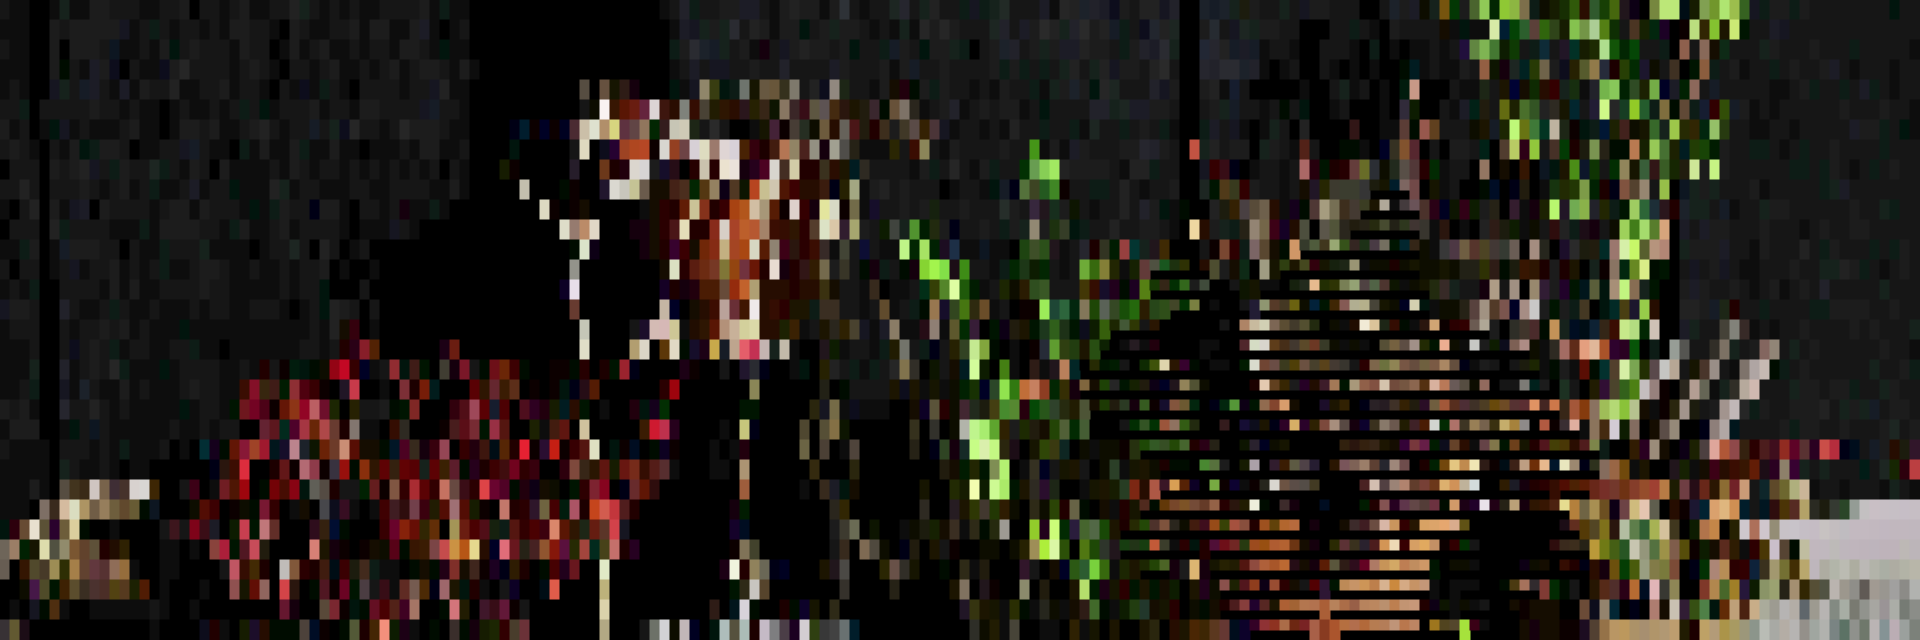
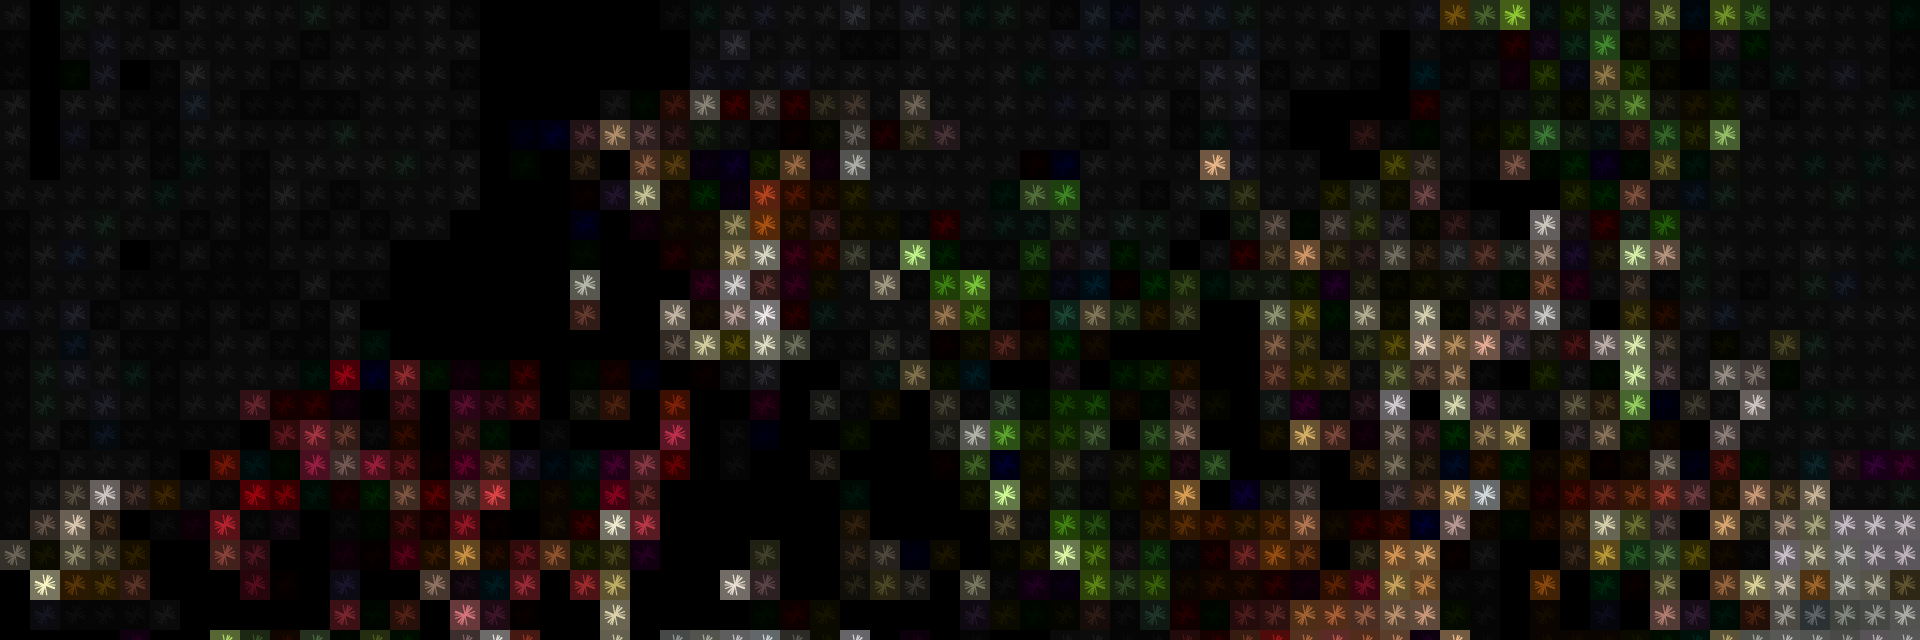
function in pixel

diff --git a/sketch.js b/sketch.js
@@ -3,9 +3,9 @@ let maskImg = null;
 let renderCounter = 0;
 
 // change these three lines as appropiate
-let sourceFile = "input_3.jpg";
-let maskFile = "mask_3.png";
-let outputFile = "output_3.png";
+let sourceFile = "input_1.jpg";
+let maskFile = "mask_1.png";
+let outputFile = "output_1.png";
 
 function preload() {
   sourceImg = loadImage(sourceFile);
@@ -23,73 +23,46 @@ function setup() {
   maskImg.loadPixels();
 }
 
-const tileHeight = 10;
-const tileWidth = 10;
+const tileHeight = 30;
+const tileWidth = 30;
 
-const x_step = 10;
-const y_step = 20;
+const x_step = 30;
+const y_step = 30;
 
 function draw() {
 
-  for(var x = 0; x < sourceImg.width; x = x+ x_step){
-    for(var y = 0; y < sourceImg.height; y = y+ y_step){
-        let pix = sourceImg.get(x, y);
-        let mask = maskImg.get(x, y);
-        fill(pix);
-        stroke(pix);
-         if (mask[0] > 128) {
-        rect(x,y,tileWidth,tileHeight);
-  }
-  else{
-    rect(x,y,x_step,y_step);
-  }
-}
+  for (var x = 0; x < sourceImg.width; x = x + x_step) {
+    for (var y = 0; y < sourceImg.height; y = y + y_step) {
+      let pix = sourceImg.get(x, y);
+      let mask = maskImg.get(x, y);
 
-}
-
-  //
-  // for (let i = 0; i < 1000; i++) {
-  //   let x = floor(random(sourceImg.width));
-  //   let y = floor(random(sourceImg.height));
-  //   let pix = sourceImg.get(x, y);
-  //   let mask = maskImg.get(x, y);
-  //   fill(pix);
-  //   stroke(pix);
-  //
-  //   let pointSize = 20;
-  //   let dice = random(1, 6);
-  //   if (mask[0] > 128) {
-  //     //line(x, y, x + pointSize, y); // horizonal "windy
-  //     drawStar(x,y,15);
-  //   } else {
-  //     if (dice > 5) {
-  //       line(x, y, x + pointSize, y); // horizonal "windy"
-  //     } else {
-  //       line(x, y, x, y + pointSize); // vertical "rainy"
-  //
-  //     }
-  //   }
-  // }
+      fill(pix[0],pix[1],pix[2],50);
+      noStroke();
+      rect(x, y, tileWidth, tileHeight);
+      drawStar(x,y,10,pix);
+    }
+  }
 
 
 
   renderCounter = renderCounter + 1;
-  if (renderCounter > 10) {
+  if (renderCounter > 2) {
     console.log("Done!")
     noLoop();
     // uncomment this to save the result
-    saveArtworkImage(outputFile);
+    // saveArtworkImage(outputFile);
   }
 }
 
-function drawStar(x,y,size){
+function drawStar(x, y, size,c) {
+  stroke(c);
   push();
   //strokeWeight(4);
-  translate(x,y);
-  for(var i = 0; i < 10; i++){
-    line(size,0,-size,0);
-      rotate(360/ i);
-    }
+  translate(x+15, y+15);
+  for (var i = 0; i < 10; i++) {
+    line(size, 0, -size, 0);
+    rotate(360 / i);
+  }
   pop();
 }
 

diff --git a/z_purview_helper.js b/z_purview_helper.js
@@ -35,19 +35,22 @@ function saveBlocksImages() {
   p5.prototype.downloadFile(imageData, 'artwork.png', 'png');
 */
 
+  var pd = this._pixelDensity;
+  // console.log("PD", pd)
+
   // generate 960x500 preview.jpg 1/3 of the way down
-  offscreenCanvas.width = 960;
-  offscreenCanvas.height = 500;
+  offscreenCanvas.width = pd*960;
+  offscreenCanvas.height = pd*500;
 
   // background is flat white  
   context = offscreenCanvas.getContext('2d');
   context.fillStyle="#FFFFFF";
-  context.fillRect(0, 0, 960, 500);
+  context.fillRect(0, 0, pd*960, pd*500);
 
   // now scaledown
-  var crop_width = 1080;
-  var crop_height = 564;
-  context.drawImage(this.canvas, 0, 640, crop_width, crop_height, 0, 0, 960, 500);
+  var crop_width = pd*1223;
+  var crop_height = pd*640;
+  context.drawImage(this.canvas, pd*348, 0, crop_width, crop_height, 0, 0, 960, 500);
 
   // save to browser
   var downloadMime = 'image/octet-stream';
@@ -59,18 +62,18 @@ function saveBlocksImages() {
   }, 1000);
 
   // generate 230x120 thumbnail.png  1/3 of the way down
-  offscreenCanvas.width = 230;
-  offscreenCanvas.height = 120;
+  offscreenCanvas.width = pd*230;
+  offscreenCanvas.height = pd*120;
 
   // background is flat white  
   context = offscreenCanvas.getContext('2d');
   context.fillStyle="#FFFFFF";
-  context.fillRect(0, 0, 230, 120);
+  context.fillRect(0, 0, pd*230, pd*120);
 
   // now scaledown
-  var crop_width = 1080;
-  var crop_height = 564;
-  context.drawImage(this.canvas, 0, 640, crop_width, crop_height, 0, 0, 230, 120);
+  var crop_width = pd*1223;
+  var crop_height = pd*640;
+  context.drawImage(this.canvas, pd*348, 0, crop_width, crop_height, 0, 0, 230, 120);
 
   var imageDataThumbnail = offscreenCanvas.toDataURL('image/png');
   imageDataThumbnail = imageDataThumbnail.replace('image/png', downloadMime);

diff --git a/README.md b/README.md
@@ -1,2 +1,3 @@
 ## Creative Coding 2: Custom Pixel
-I have altered my sketch.js code. It now draws stars where ever there is white in the mask. This is an example using nested for loops to create a grid.
+I have altered my sketch.js code.
+In this version it draws a grid of semi transparent squares. Then it draws opaque stars on top.  
